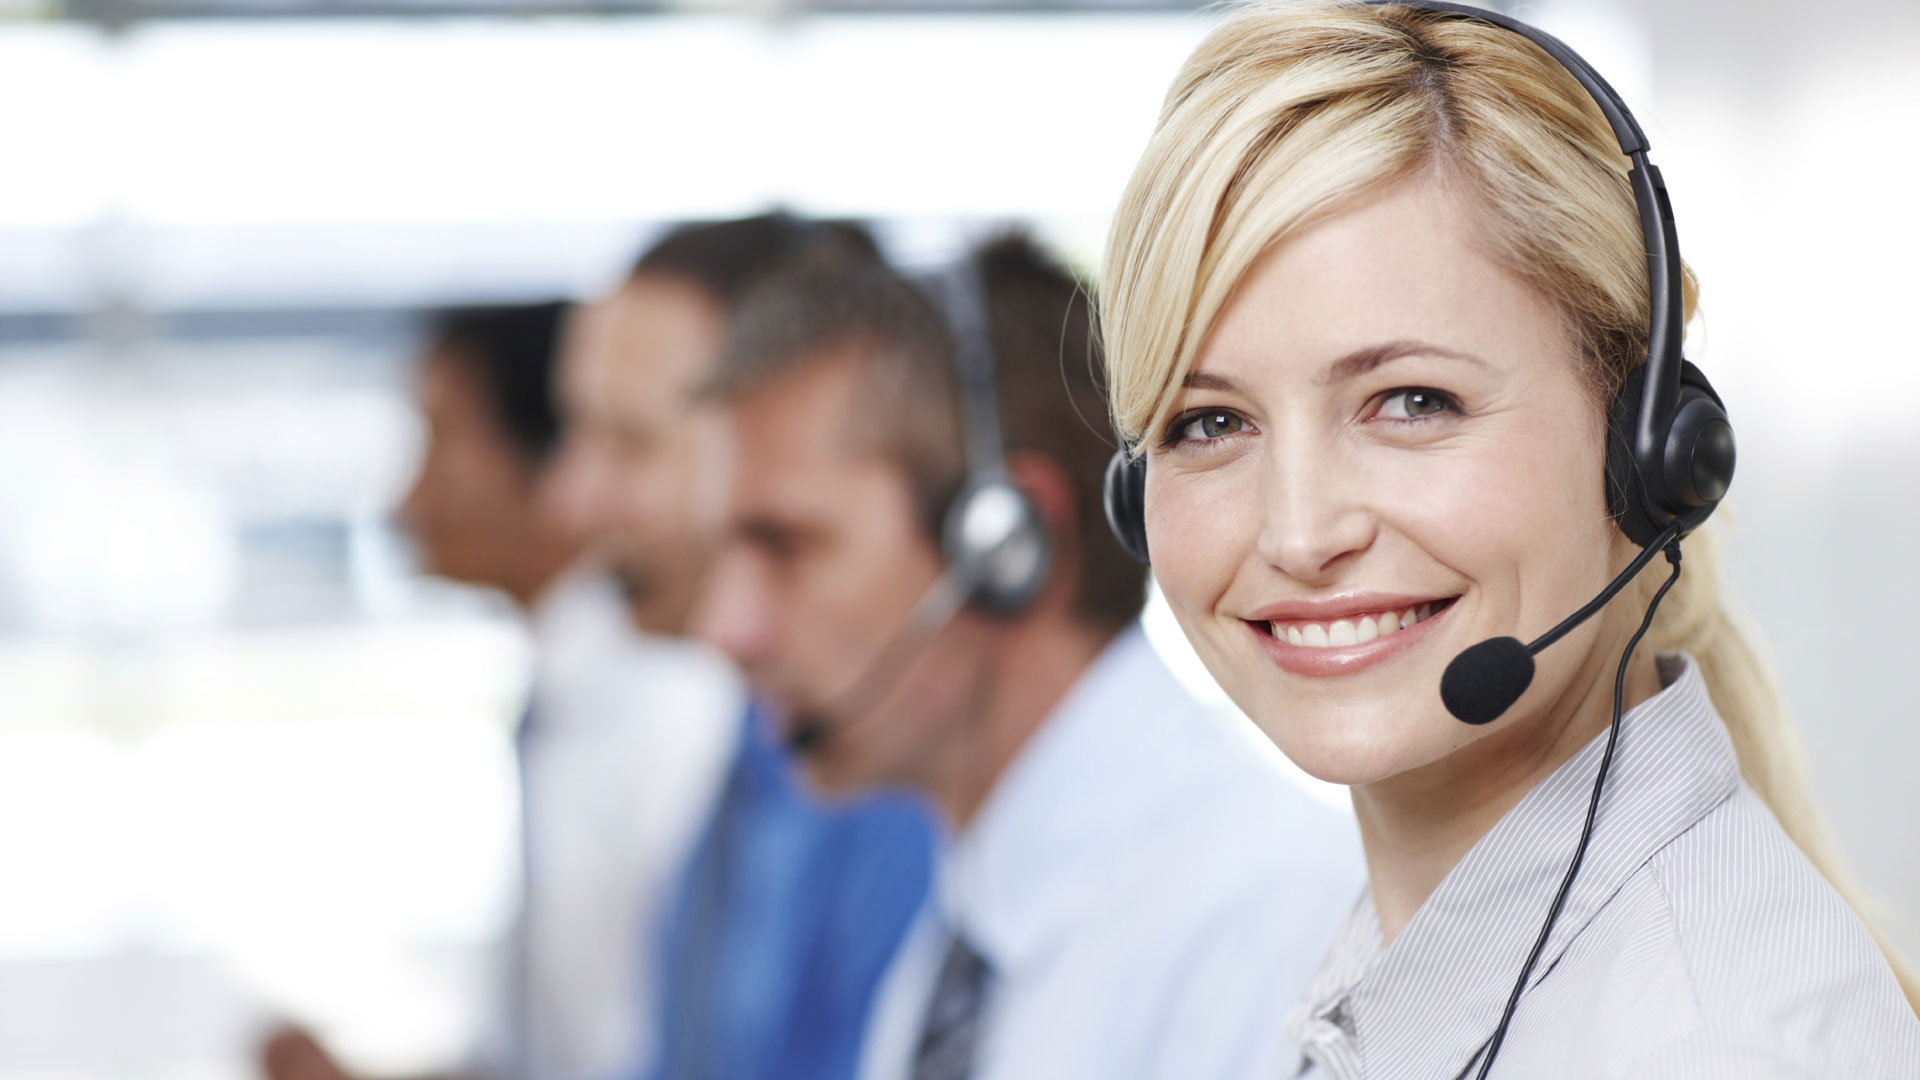
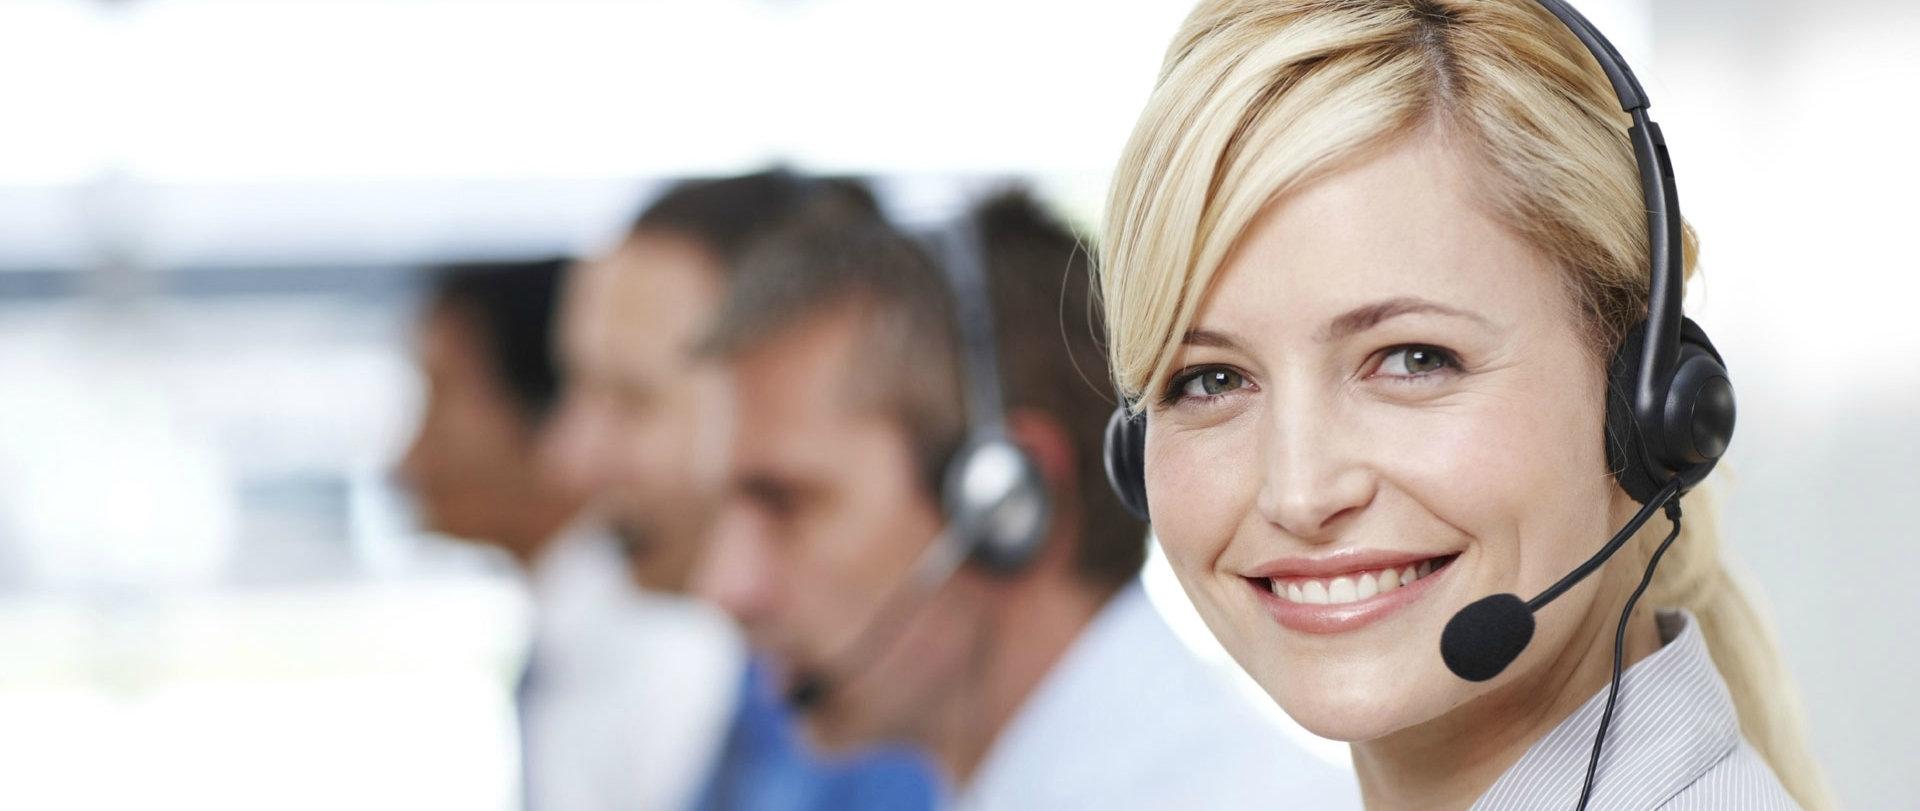
latest@10:59

diff --git a/ui-with-reg/src/app/home/home.component.html b/ui-with-reg/src/app/home/home.component.html
@@ -1,30 +1,30 @@
-<div id="carouselExampleFade" class="carousel slide carousel-fade" data-ride="carousel" style="margin:2%">
+<div id="carouselExampleFade" class="carousel slide carousel-fade" data-ride="carousel" style="margin:0 0 3% 0">
   <ol class="carousel-indicators">
-      <li data-target="#carouselExampleIndicators" data-slide-to="0" class="active"></li>
-      <li data-target="#carouselExampleIndicators" data-slide-to="1"></li>
-      <li data-target="#carouselExampleIndicators" data-slide-to="2"></li>
-    </ol>
+    <li data-target="#carouselExampleIndicators" data-slide-to="0" class="active"></li>
+    <li data-target="#carouselExampleIndicators" data-slide-to="1"></li>
+    <li data-target="#carouselExampleIndicators" data-slide-to="2"></li>
+  </ol>
   <div class="carousel-inner">
     <div class="carousel-item active">
-      <img class="d-block w-100" src="assets/customersup.jpg" width="160px" height="450px" alt="First slide">
+      <img class="d-block w-100" src="assets/customer-care.jpg" width="160px" height="450px" alt="First slide">
       <div class="carousel-caption d-none d-md-block">
-          <h5>Customer Support</h5>
-          <p>Best In Class Customer Support</p>
-        </div>
+        <h5>Customer Support</h5>
+        <p>Best In Class Customer Support</p>
+      </div>
     </div>
     <div class="carousel-item">
       <img class="d-block w-100" src="assets/pay.jpg" width="160px" height="450px" alt="Second slide">
       <div class="carousel-caption d-none d-md-block">
-          <h5>Plans</h5>
-          <p>Cheap and Effective plans.</p>
-        </div>
+        <h5>Plans</h5>
+        <p>Cheap and Effective plans.</p>
+      </div>
     </div>
     <div class="carousel-item">
       <img class="d-block w-100" src="assets/data2.jpg" width="160px" height="450px" alt="Third slide">
       <div class="carousel-caption d-none d-md-block">
-          <h5>Services</h5>
-          <p>Best in clsaa Service</p>
-        </div>
+        <h5>Services</h5>
+        <p>Best in class Service</p>
+      </div>
     </div>
   </div>
   <a class="carousel-control-prev" href="#carouselExampleFade" role="button" data-slide="prev">
@@ -61,7 +61,7 @@
     </div>
     <div class="col-xs-12 col-md-6 col-lg-3">
       <div class="card" style="width: 100%;">
-        <img class="card-img-top" src="assets/datas.jpeg" width="100%" height="180px" alt="Card image cap">
+        <img class="card-img-top" src="assets/datas.jpg" width="100%" height="180px" alt="Card image cap">
         <div class="card-block">
           <h4 class="card-title">Data</h4>
           <p class="card-text">
@@ -126,7 +126,7 @@
 <div class="container" style="margin-top: 40px">
   <h1 class="display-4">Our Office is At</h1>
   <iframe src="https://www.google.com/maps/embed?pb=!1m18!1m12!1m3!1d18494.357782791307!2d80.2314192127058!3d12.974423650328923!2m3!1f0!2f0!3f0!3m2!1i1024!2i768!4f13.1!3m3!1m2!1s0x3a525d9b10124fe5%3A0x44eb74954dfbe06!2sTeckSphere!5e0!3m2!1sen!2sin!4v1540034666211"
-    width="1200" height="450" frameborder="0" style="border:0" allowfullscreen></iframe>
+    width="1100" height="450" frameborder="0" style="border:0" allowfullscreen></iframe>
 </div>
 
 
@@ -144,7 +144,7 @@
   </div>
 </div>
 <div class="container-fluid" style="margin-top: 0%">
-  <h6 style="text-align: center">Copywrite WaterLine Technologies</h6>
+  <h6 style="text-align: center">Copyright WaterLine Technologies</h6>
 </div>
 <!--<ul> 
       <li><a href="/faq">FAQ</a></li>

diff --git a/ui-with-reg/src/app/app.component.html b/ui-with-reg/src/app/app.component.html
@@ -41,7 +41,7 @@
         <a class="nav-link" style="color:#3752a3" (click)="open(content)">Contact Us</a>
       </li>
     </ul>
-    <div style="margin-left: 300px;">
+    <div class="nav navbar-right" style="margin-left: 600px;">
       <ul class="nav navbar-nav navbar-right">
         <li *ngIf="!status">
           <form class="form-inline">
@@ -77,44 +77,47 @@
           </form>
 
         </li>
+
         <li class="dropdown" *ngIf="status">
           <a href="#" class="dropdown-toggle" data-toggle="dropdown">
             <i class="fa fa-user " aria-hidden="true"></i>
             <strong>Siddhant</strong>
             <span class="glyphicon glyphicon-chevron-down"></span>
           </a>
-          <ul class="dropdown-menu">
-            <li>
-              <div class="navbar-login">
-                <div class="row">
-                  <div class="col-lg-4">
-                    <p class="text-center">
-                      <i class="fa fa-user fa-5x" aria-hidden="true"></i>
-                    </p>
-                  </div>
-                  <div class="col-lg-8">
-                    <p class="text-left"><strong>Siddhant Pandey</strong></p>
-                    <p class="text-left small">siddhantpandey59@gmail.com</p>
-                    <p class="text-left">
-                      <a href="#" class="btn btn-primary btn-block btn-sm">Profile</a>
-                    </p>
-                  </div>
-                </div>
-              </div>
-            </li>
-            <li class="divider"></li>
-            <li>
-              <div class="navbar-login navbar-login-session">
-                <div class="row">
-                  <div class="col-lg-12">
-                    <p>
-                      <a href="#" class="btn btn-danger btn-block">Log Out</a>
-                    </p>
+          <div>
+            <ul class="dropdown-menu">
+              <li>
+                <div class="navbar-login">
+                  <div class="row">
+                    <div class="col-lg-4">
+                      <p class="text-center">
+                        <i class="fa fa-user fa-5x" aria-hidden="true"></i>
+                      </p>
+                    </div>
+                    <div class="col-lg-8">
+                      <p class="text-left"><strong>Siddhant Pandey</strong></p>
+                      <p class="text-left small">siddhantpandey59@gmail.com</p>
+                      <p class="text-left">
+                        <a href="#" class="btn btn-primary btn-block btn-sm" routerLink="/profile">Profile</a>
+                      </p>
+                    </div>
                   </div>
                 </div>
-              </div>
-            </li>
-          </ul>
+              </li>
+              <li class="divider"></li>
+              <li>
+                <div class="navbar-login navbar-login-session">
+                  <div class="row">
+                    <div class="col-lg-12">
+                      <p>
+                        <a href="#" class="btn btn-danger btn-block">Log Out</a>
+                      </p>
+                    </div>
+                  </div>
+                </div>
+              </li>
+            </ul>
+          </div>
         </li>
       </ul>
 

diff --git a/ui-with-reg/src/app/service/telecom.service.ts b/ui-with-reg/src/app/service/telecom.service.ts
@@ -1,57 +1,69 @@
 import { Injectable } from '@angular/core';
 import { User } from '../model/user';
-import {Http,RequestOptions, Headers, Response} from '@angular/http';
+import { Http, RequestOptions, Headers, Response } from '@angular/http';
 import { Observable } from 'rxjs';
 import { map } from 'rxjs/operators';
 import { Plan } from '../model/plan';
 
 @Injectable({
-  providedIn: 'root'
+  providedIn: 'root',
 })
 export class TelecomService {
-  baseUrl:string;
+  baseUrl: string;
 
-  constructor(private http:Http) 
-  { 
-    this.baseUrl="http://localhost:9090/customers/"
-
+  constructor(private http: Http) {
+    this.baseUrl = 'http://localhost:9090/customers/';
   }
 
-
-
-
-
-  getJsonContentTypeHeader():RequestOptions
-  {
-    const headers=new Headers();
-    headers.append('Content-Type','application/json');
-    return new RequestOptions({headers:headers});
+  getJsonContentTypeHeader(): RequestOptions {
+    const headers = new Headers();
+    headers.append('Content-Type', 'application/json');
+    return new RequestOptions({ headers: headers });
   }
-  getBaseUrlForPlan():string
-  {
-    return this.baseUrl+"register";
+  getBaseUrlForPlan(): string {
+    return this.baseUrl + 'register';
   }
-  getBaseUrlForAdd():string
-  {
-    return this.baseUrl+"register";
+  getBaseUrlForAdd(): string {
+    return this.baseUrl + 'register';
   }
-  getBaseUrlForAddPlan():string{
-    return this.baseUrl+"services";
+  getBaseUrlForAddPlan(): string {
+    return this.baseUrl + 'services';
   }
-  getBaseUrlForCustomerByEmail(emid:string):string{
-    return this.baseUrl+"emailId/"+emid;
+  getBaseUrlForCustomerByEmail(emid: string): string {
+    return this.baseUrl + 'emailId/' + emid;
   }
 
-  add(user:User):Observable<User>
-  {
-    return this.http.post(this.getBaseUrlForAdd(),JSON.stringify(user),this.getJsonContentTypeHeader()).pipe(map(data=>data.json()));
+  getBaseUrlForDeleteService(serviceId: number): string {
+    return this.baseUrl + 'services/' + serviceId;
   }
-  addPlan(plan:Plan):Observable<Plan>{
+  add(user: User): Observable<User> {
+    return this.http
+      .post(
+        this.getBaseUrlForAdd(),
+        JSON.stringify(user),
+        this.getJsonContentTypeHeader()
+      )
+      .pipe(map(data => data.json()));
+  }
+  addPlan(plan: Plan): Observable<Plan> {
     console.log(plan);
-    return this.http.post(this.getBaseUrlForAddPlan(),JSON.stringify(plan),this.getJsonContentTypeHeader()).pipe(map(data=>data.json()));
+    return this.http
+      .post(
+        this.getBaseUrlForAddPlan(),
+        JSON.stringify(plan),
+        this.getJsonContentTypeHeader()
+      )
+      .pipe(map(data => data.json()));
   }
-  getCustomerByEmailId(emid:string):Observable<User>{
-   return this.http.get(this.getBaseUrlForCustomerByEmail(emid)).pipe(map(data=>data.json()));
-  }   
-    
+  getCustomerByEmailId(emid: string): Observable<User> {
+    return this.http
+      .get(this.getBaseUrlForCustomerByEmail(emid))
+      .pipe(map(data => data.json()));
+  }
+
+  deleteServiceByServiceId(serviceId: number) {
+    this.http
+      .delete(this.getBaseUrlForDeleteService(serviceId))
+      .pipe(map(data => data.json));
+  }
 }

diff --git a/ui-with-reg/src/app/user-profile/user-profile.component.html b/ui-with-reg/src/app/user-profile/user-profile.component.html
@@ -5,9 +5,9 @@
     <h1>Name: {{user.customerFirstName}} {{user.customerLastName}}</h1>
     <p class="title">Username: {{user.username}}</p>
     <p>Customer ID: {{user.customerId}}</p>
-    <p><i class="fa fa-envelope " aria-hidden="true"></i>{{user.emailId}}</p>
-    <p><i class="fa fa-mobile fa-2x" aria-hidden="true"></i>{{user.customerMobileNumber}}</p>
-    <p><i class="fa fa-birthday-cake" aria-hidden="true"></i>{{user.customerDateOfBirth}}</p>
+    <p><i class="fa fa-envelope " aria-hidden="true"></i>:{{user.emailId}}</p>
+    <p><i class="fa fa-mobile fa-2x" aria-hidden="true"></i>:{{user.customerMobileNumber}}</p>
+    <p><i class="fa fa-birthday-cake" aria-hidden="true"></i>:{{user.customerDateOfBirth}}</p>
     <button type="button" class="btn btn-default btn-sm" routerLink="/register">
       <i class="fa fa-pencil-square-o" aria-hidden="true"></i> Edit Details</button>
   </div>
@@ -30,7 +30,7 @@
       <td>R399</td>
       <td>27-06-2010</td>
       <td><a href="#">
-          <span class="glyphicon glyphicon-trash" style="margin-left: 10px"></span>
+          <i class="fa fa-trash" aria-hidden="true"></i>
         </a></td>
     </tr>
     <tr *ngFor="let a of plans">
@@ -38,8 +38,8 @@
       <td>{{a.services}}</td>
       <td>{{a.plans}}</td>
       <td>{{a.packages}}</td>
-      <td>{{a.dateOfActivation}}<a href="#">
-          <span class="glyphicon glyphicon-trash"></span>
+      <td>{{a.dateOfActivation}}<a href="#" (click)="deleteService()" [(ngModel)]="a.serviceId">
+          <i class="fa fa-trash" aria-hidden="true"></i>
         </a></td>
     </tr>
   </table>

diff --git a/ui-with-reg/src/app/popularplans/popularplans.component.html b/ui-with-reg/src/app/popularplans/popularplans.component.html
@@ -21,7 +21,7 @@
     </div>
     <div class="col-xs-12 col-md-6 col-lg-3">
       <div class="card" style="width: 100%;">
-        <img class="card-img-top" src="assets/datas.jpeg" width="100%" height="180px" alt="Card image cap">
+        <img class="card-img-top" src="assets/datas.jpg" width="100%" height="180px" alt="Card image cap">
         <div class="card-block">
           <h4 class="card-title">Data</h4>
           <p class="card-text">
@@ -86,7 +86,7 @@
 <div class="container" style="margin-top: 40px">
   <h1 class="display-4">Our Office is At</h1>
   <iframe src="https://www.google.com/maps/embed?pb=!1m18!1m12!1m3!1d18494.357782791307!2d80.2314192127058!3d12.974423650328923!2m3!1f0!2f0!3f0!3m2!1i1024!2i768!4f13.1!3m3!1m2!1s0x3a525d9b10124fe5%3A0x44eb74954dfbe06!2sTeckSphere!5e0!3m2!1sen!2sin!4v1540034666211"
-    width="1200" height="450" frameborder="0" style="border:0" allowfullscreen></iframe>
+    width="1100" height="450" frameborder="0" style="border:0" allowfullscreen></iframe>
 </div>
 
 
@@ -104,7 +104,7 @@
   </div>
 </div>
 <div class="container-fluid" style="margin-top: 0%">
-  <h6 style="text-align: center">Copywrite WaterLine Technologies</h6>
+  <h6 style="text-align: center">Copyright WaterLine Technologies</h6>
 </div>
 <!--<ul> 
       <li><a href="/faq">FAQ</a></li>

diff --git a/ui-with-reg/src/app/user-profile/user-profile.component.ts b/ui-with-reg/src/app/user-profile/user-profile.component.ts
@@ -1,7 +1,7 @@
 import { Component, OnInit } from '@angular/core';
 import { User } from '../model/user';
 import { TelecomService } from '../service/telecom.service';
-import { ActivatedRoute } from '@angular/router';
+import { ActivatedRoute, Router } from '@angular/router';
 import { Plan } from '../model/plan';
 
 @Component({
@@ -14,9 +14,18 @@ export class UserProfileComponent implements OnInit {
   plans: Plan[];
   userLogo: string;
 
-  constructor(telserv: TelecomService, activatedRoute: ActivatedRoute) {
+  constructor(
+    private ts: TelecomService,
+    private activatedRoute: ActivatedRoute,
+    private router: Router
+  ) {
     this.userLogo = 'assets/user.jpg';
   }
 
   ngOnInit() {}
+
+  deleteService(serviceId: number) {
+    this.ts.deleteServiceByServiceId(serviceId);
+    this.router.navigate(['/plans']);
+  }
 }

diff --git a/ui-with-reg/src/app/popularplans/popularplans.component.css b/ui-with-reg/src/app/popularplans/popularplans.component.css
@@ -1,0 +1,15 @@
+.container {
+    margin-top: 30px;
+}
+
+.card-title {
+    margin-left: 10px;
+}
+
+.card-text {
+    margin-left: 10px;
+}
+
+.btn {
+    width: 100%;
+}

diff --git a/ui-with-reg/src/app/home/home.component.css b/ui-with-reg/src/app/home/home.component.css
@@ -1,0 +1,11 @@
+.card-title {
+    margin-left: 10px;
+}
+
+.card-text {
+    margin-left: 10px;
+}
+
+.btn {
+    width: 100%;
+}
